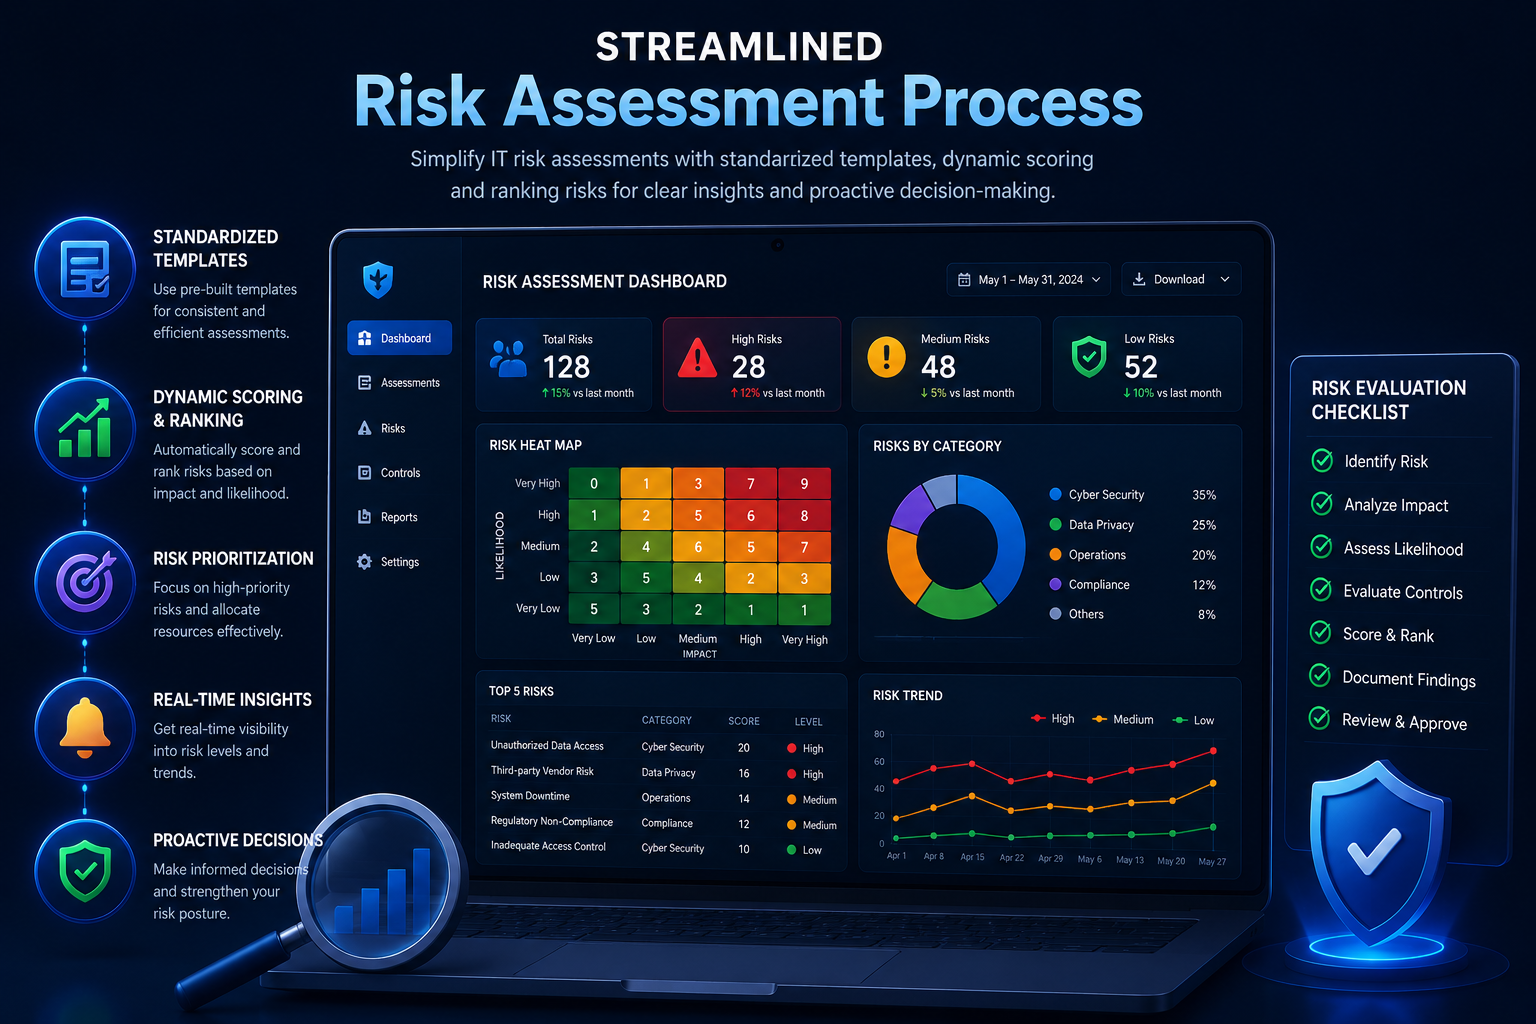
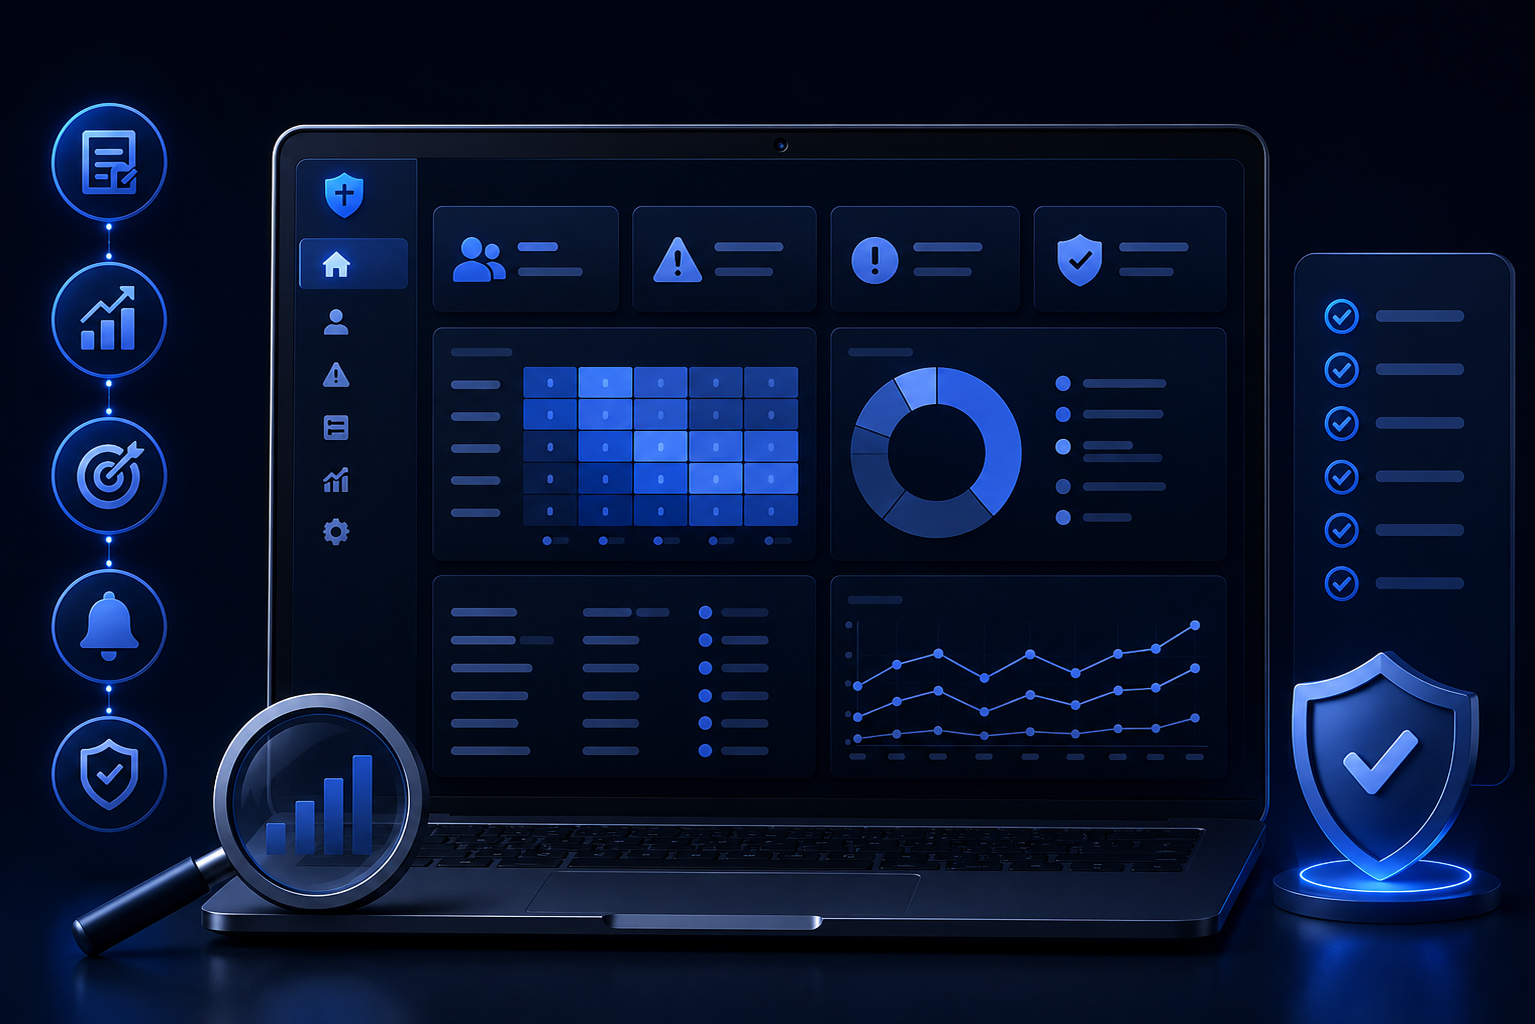
Updated code

diff --git a/app/(main)/industry/banking-finance/page.js b/app/(main)/industry/banking-finance/page.js
@@ -6,27 +6,27 @@ const BankingFinance = () => {
         {
             title: "Optimize Audit Efficiency",
             text: "Optimize Audit Efficiency refers to streamlining the audit process to save time, reduce costs, and improve accuracy without compromising compliance or quality.",
-            image: "/banking-finance.png",
+            image: "/Banking And Finance.png",
         },
         {
             title: "Simplify Control Testing",
             text: "Simplify Control Testing means making the process of checking internal controls easier, faster, and more effective through automation and centralized data.",
-            image: "/banking-finance.png",
+            image: "/Simplify Control Testing.png",
         },
         {
             title: "Track and Analyze Key Risk Indicators",
             text: "Track and Analyze Key Risk Indicators involves monitoring measurable data points that signal potential threats to an organization’s objectives.",
-            image: "/banking-finance.png",
+            image: "/Banking And Finance.png",
         },
         {
             title: "Strengthen IT and Compliance Risk Management",
             text: "Strengthen IT and Compliance Risk Management means building robust processes to protect critical systems, data, and business operations.",
-            image: "/banking-finance.png",
+            image: "/Strengthen IT and Compliance.png",
         },
         {
             title: "Unify Governance, Risk, and Compliance (GRC)",
             text: "Unify Governance, Risk, and Compliance (GRC) brings together policies, processes, and tools to manage business objectives and regulatory requirements.",
-            image: "/banking-finance.png",
+            image: "/Unify Governance.png",
         },
     ];
 

diff --git a/app/(main)/industry/energy/page.js b/app/(main)/industry/energy/page.js
@@ -6,27 +6,27 @@ const Energy = () => {
         {
             title: "Transform Risk into a Business Advantage",
             text: "The energy sector faces an increasingly volatile landscape marked by fluctuating prices, evolving demand, cyber threats, and supply chain disruptions. To thrive amidst these challenges, companies must turn risk into opportunity. Our GRC solutions empower organizations to proactively address risks, mitigate compliance burdens, safeguard against cyber threats, and streamline audit processes, positioning them to not only survive but lead in this dynamic industry.",
-            image: "/energy.png",
+            image: "/Transform Risk into a Business.png",
         },
         {
             title: "Simplify Compliance Across Multiple Frameworks",
             text: "Stay ahead of regulatory changes by linking your organization’s requirements, controls, and risks to multiple industry frameworks. Our solutions enable seamless mapping of new framework requirements to existing controls, ensuring compliance across state and regional public service commissions, as well as cross-industry regulations. This reduces manual efforts, minimizes duplication, and accelerates your compliance journey.",
-            image: "/energy.png",
+            image: "/Simplify Compliance Across.png",
         },
         {
             title: "Enhance Audit Planning and Scope with Data-Driven Insights",
             text: "Unify all auditable entities, key metrics, and associated risks in one centralized system for better oversight. With this integrated view, perform thorough risk assessments and pinpoint any coverage gaps, allowing for a more strategic and impactful audit plan. Our tools help prioritize risk areas and ensure comprehensive coverage across your organization’s operations.",
-            image: "/energy.png",
+            image: "/Enhance Audit Planning.png",
         },
         {
             title: "Strengthen Cyber and Third-Party Risk Management",
             text: "As cyber threats and third-party vulnerabilities rise, the energy sector needs a robust risk management framework. Our GRC solutions help you identify, assess, and mitigate cyber risks and third-party vulnerabilities, ensuring your organization is resilient against potential breaches and disruptions. This integrated approach reduces exposure to emerging risks while safeguarding vital infrastructure.",
-            image: "/energy.png",
+            image: "/Strengthen Cyber and Third-Party.png",
         },
         {
             title: "Foster Operational Resilience Through Risk Mitigation",
             text: "In the face of supply chain disruptions, sustainability concerns, and evolving regulations, operational resilience is key to success. Our solutions equip energy organizations with the tools to proactively mitigate operational risks and comply with necessary regulations. By integrating risk management across departments, your organization can confidently navigate industry challenges and maintain sustainable growth while remaining agile in an unpredictable environment.",
-            image: "/energy.png",
+            image: "/Foster Operational Resilience.png",
         },
     ];
 

diff --git a/app/(main)/industry/healthcare/page.js b/app/(main)/industry/healthcare/page.js
@@ -6,27 +6,27 @@ const Healthcare = () => {
         {
             title: "Simplify Policy Management",
             text: "Streamline the process of updating, communicating, and maintaining policies and procedures by integrating with Microsoft Word. Use standard templates to save time and make real-time updates to avoid version control issues.",
-            image: "/healthcare.png",
+            image: "/Simplify Policy Management.png",
         },
         {
             title: "Build a Centralized Asset Inventory",
             text: "Keep track of important assets in one unified system. Link assets to framework requirements, risks, and controls, ensuring all critical information is connected for smoother future audits.",
-            image: "/healthcare.png",
+            image: "/Build a Centralized.png",
         },
         {
             title: "Enhance Governance, Risk, and Compliance Integration",
             text: "Healthcare organizations face growing compliance challenges. A connected governance, risk, and compliance system ensures better management and mitigation of risks across the healthcare sector.",
-            image: "/healthcare.png",
+            image: "/Enhance Governance.png",
         },
         {
             title: "Automate Risk and Compliance Management",
             text: "Automate and integrate governance, risk, and compliance processes to improve oversight, manage risks effectively, and ensure stronger regulatory compliance.",
-            image: "/healthcare.png",
+            image: "/Automate Risk.png",
         },
         {
             title: "Improve Cyber Risk and Regulatory Compliance",
             text: "Strengthen risk and compliance management systems to better manage cyber threats, improve cybersecurity posture, and support ongoing regulatory adherence.",
-            image: "/healthcare.png",
+            image: "/Improve Cyber Risk.png",
         },
     ];
 

diff --git a/app/(main)/industry/insurance/page.js b/app/(main)/industry/insurance/page.js
@@ -6,27 +6,27 @@ const Insurance = () => {
         {
             title: "Strengthen Risk Management and Compliance Frameworks",
             text: "The insurance industry faces a growing array of risks—cyber, operational, and compliance—that are increasingly complex and interconnected. We empower insurance companies to adopt a unified approach to managing enterprise-wide risks, compliance, audits, third-party relationships, and cyber threats.",
-            image: "/insurance.png",
+            image: "/Strengthen Risk.png",
         },
         {
             title: "Accelerate Compliance Achievement",
             text: "Simplify and consolidate your complex ecosystem into a single, accessible platform that supports multiple frameworks and stakeholders. This centralized approach allows for quicker and easier demonstration of compliance across the organization.",
-            image: "/insurance.png",
+            image: "/Accelerate Compliance.png",
         },
         {
             title: "Facilitate Cross-Department Collaboration",
             text: "Foster collaboration across departments by using a single, integrated platform that centralizes risk management and compliance activities. This streamlines workflows, saves time, and enhances cross-functional cooperation.",
-            image: "/insurance.png",
+            image: "/Facilitate Cross-Department.png",
         },
         {
             title: "Support Growth with Scalable Solutions",
             text: "Scale your risk and compliance programs effortlessly with an intuitive platform that automates and simplifies your processes. This ensures your compliance and risk management practices grow alongside your business.",
-            image: "/insurance.png",
+            image: "/Support Growth.png",
         },
         {
             title: "Proactively Manage ESG Risks",
             text: "Leverage materiality assessments to gather stakeholder feedback and identify critical Environmental, Social, and Governance (ESG) issues. Integrate ESG data into your ERM program to uncover potential risks and opportunities.",
-            image: "/insurance.png",
+            image: "/Proactively Manage ESG risks.png",
         },
     ];
 

diff --git a/app/(main)/industry/telecom/page.js b/app/(main)/industry/telecom/page.js
@@ -6,27 +6,27 @@ const Telecom = () => {
         {
             title: "Enhance Visibility into Risk and Compliance Operations",
             text: "Telecommunications providers face a variety of challenges, including an increasingly complex risk landscape, growing regulatory and compliance demands, and rising privacy and security threats. The shift towards 5G and the upcoming 6G technology will only increase the scope of compliance obligations, requiring a more interconnected approach to risk and compliance management.",
-            image: "/telecom.png",
+            image: "/Enhance Visibility into Risk.png",
         },
         {
             title: "Simplify Policy Management and Updates",
             text: "Managing the ongoing updates, communications, and maintenance of policies and procedures can be time-consuming. Integrate with Microsoft Word, use pre-built templates to speed up document creation, and maintain accurate version control with real-time updates mapped to compliance frameworks.",
-            image: "/telecom.png",
+            image: "/Simplify Policy Management and Updates.png",
         },
         {
             title: "Comprehensive View of Frameworks and Controls",
             text: "Map controls to specific frameworks and gain clear visibility into overlapping requirements and risk areas. Customized filters and centralized tracking help telecom teams focus on high-priority compliance and operational objectives efficiently.",
-            image: "/telecom.png",
+            image: "/Comprehensive View of Frameworks.png",
         },
         {
             title: "Foster Seamless Stakeholder Collaboration",
             text: "Improve communication and collaboration across departments through automated workflows, evidence collection, audit tracking, and centralized repositories. Maintain transparency and simplify coordination across the entire audit lifecycle.",
-            image: "/telecom.png",
+            image: "/Foster Seamless Stakeholder.png",
         },
         {
             title: "Centralized Risk and Compliance Oversight",
             text: "Create a single source of truth for compliance and risk management activities. Track assessments, automate reporting, and streamline management tasks while responding quickly to regulatory changes and operational incidents.",
-            image: "/telecom.png",
+            image: "/Centralized Risk and Compliance.png",
         },
     ];
 

diff --git a/app/(main)/framework/soc2/page.js b/app/(main)/framework/soc2/page.js
@@ -11,22 +11,22 @@ const SOC2 = () => {
         {
             title: "Create SOC 2 Compliant Policies in Minutes",
             text: "Leverage pre-built SOC 2 policies or upload your own to quickly establish a compliant information security program tailored to your organization.",
-            image: "/SOC 2 (System and Organization Controls 2).png",
+            image: "/Create SOC 2 Compliant.png",
         },
         {
             title: "Streamline Your SOC 2 Compliance Workflows",
             text: "Centralize compliance activities, track evidence, collaborate with teams, and simplify your SOC 2 auditing process with improved visibility.",
-            image: "/SOC 2 (System and Organization Controls 2).png",
+            image: "/Streamline Your SOC 2.png",
         },
         {
             title: "Accelerate Your SOC 2 Audit Process",
             text: "Invite auditors and consultants onto the platform, share evidence securely, and track audit progress in real-time for a faster audit experience.",
-            image: "/SOC 2 (System and Organization Controls 2).png",
+            image: "/Accelerate Your SOC 2 Audit.png",
         },
         {
             title: "Enhance Collaboration with Your Audit Team",
             text: "Manage all audit-related communication in one place, track requests, and streamline responses to ensure a smooth SOC 2 compliance journey.",
-            image: "/SOC 2 (System and Organization Controls 2).png",
+            image: "/Enhance Collaboration.png",
         },
     ];
 

diff --git a/app/(main)/industry/technology/page.js b/app/(main)/industry/technology/page.js
@@ -6,22 +6,22 @@ const Technology = () => {
         {
             title: "Simplify Policy Creation and Maintenance",
             text: "Effortlessly manage and update essential policies and procedures. Integrate with Microsoft Word and use pre-built templates to quickly create and modify documents. Ensure seamless version control with live updates and align finalized policies with relevant framework requirements and controls.",
-            image: "/technology.png",
+            image: "/Simplify Policy Creation and Maintenance.png",
         },
         {
             title: "Achieve Seamless Multi-Framework Compliance",
             text: "Streamline the management of various frameworks by linking their requirements, controls, and risks in one unified system. Minimize redundancies by detecting overlapping controls, enabling you to scale compliance efforts more efficiently while staying ahead of evolving regulations.",
-            image: "/technology.png",
+            image: "/Achieve Seamless Multi-Framework.png",
         },
         {
             title: "Automate Report Creation for Deeper Insights",
             text: "Quickly generate insightful reports on key compliance risks and metrics. Dive into both high-level executive dashboards and in-depth reports to evaluate your compliance status, and reduce administrative workload by automating report creation processes.",
-            image: "/technology.png",
+            image: "/Automate Report Creation.png",
         },
         {
             title: "Accelerate Operational Resilience with Integrated Risk Management",
             text: "Empower your organization to address compliance, audit, cyber risk, and third-party challenges with a unified solution. By automating and connecting these critical areas, gain a strategic advantage in maintaining resilience and reducing operational vulnerabilities.",
-            image: "/technology.png",
+            image: "/Accelerate Operational Resilience.png",
         },
     ];
 

diff --git a/app/(main)/page.js b/app/(main)/page.js
@@ -114,7 +114,7 @@ export default function Home() {
                   className="chl73 c80q8 ch30f crgfn c9p57 cnt4i c6odu cgxy0"
                   data-aos="fade-down"
                 >
-                  <span className="text-green-400">Risk</span> And Compliance
+                  <span className="text-blue-800">Risk</span> And Compliance
                 </h1>
                 <p
                   className="chu7q csqzg ci5zu"